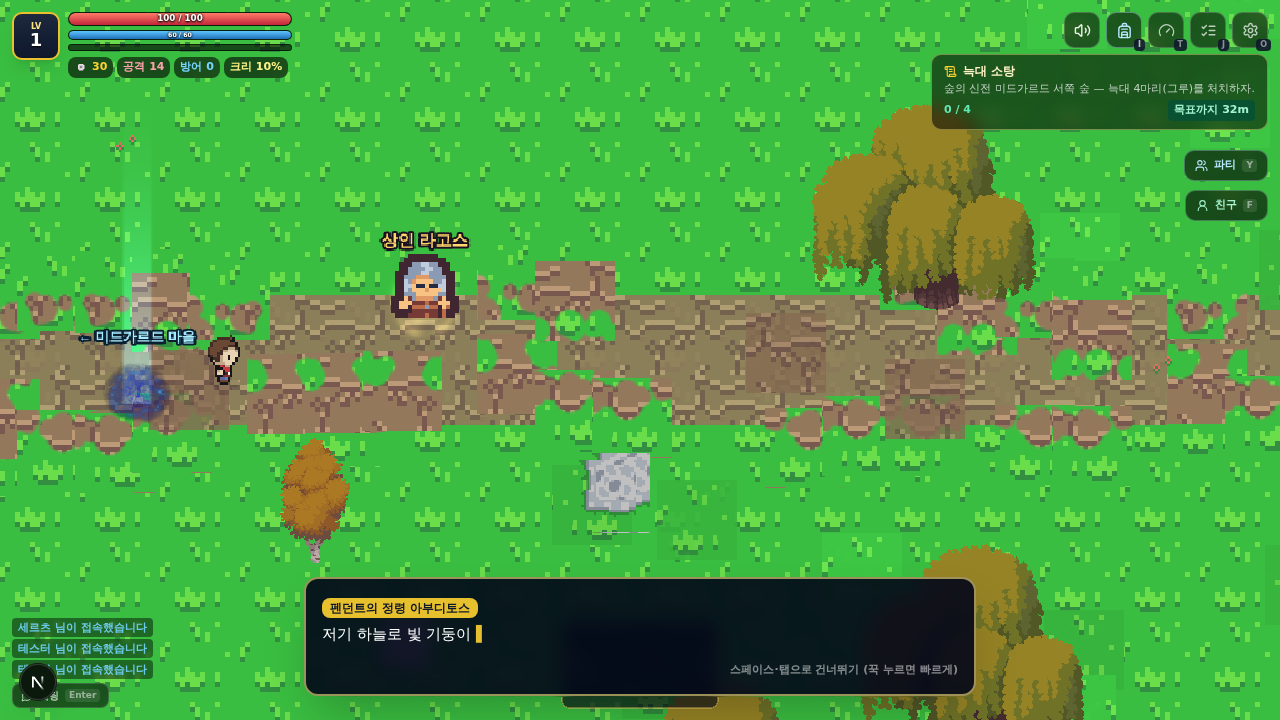
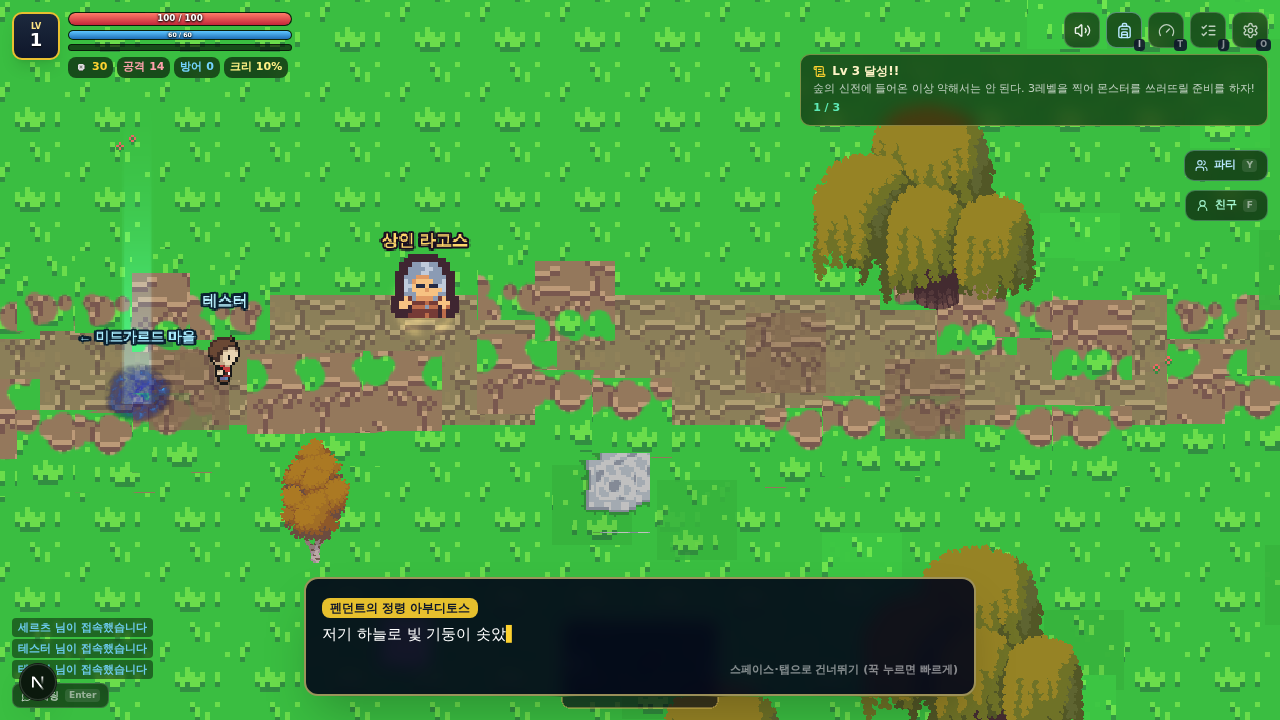
v2.4: 레벨 목표 퀘스트 게이트(9챕터×2, 동기부여+진행 게이트) + 구역 1~9 전진 포탈 소프트락 수정 + 옵션 이름 변경/이름표 유지

diff --git a/src/game/scenes/WorldScene.ts b/src/game/scenes/WorldScene.ts
@@ -364,6 +364,8 @@ export class WorldScene extends Phaser.Scene {
       if (savedPlayer.playerName) setPlayerName(savedPlayer.playerName);
       // 전직 클래스 복원 (v1.7 — 구 세이브 null 호환)
       this.player.applySavedClass(savedPlayer.cls);
+      // v2.4 — 이어하기 시에도 이름표 유지 (클래스 복원 후 생성 — "이름 · 클래스" 표기)
+      if (savedPlayer.playerName) this.ensurePlayerTag();
       // AP 스탯 복원 (v1.9 — 구 세이브는 loadSave()가 5/5/5/5 + 소급 AP 채움)
       // 지력/행운의 maxMp/maxHp 가산은 세이브 maxHp에 이미 포함 — 여기선 수치만 복원
       const st = savedPlayer.stats ?? { str: 5, dex: 5, int: 5, luk: 5 };
@@ -472,10 +474,16 @@ export class WorldScene extends Phaser.Scene {
     } else if (stageKey !== "village" && this.currentQuest()?.type === "reach") {
       // 수확 완료 후 세이브 — 차원문을 열어둔 채 시작 (소프트락 방지)
       this.activatePortal(true);
+    } else if (stageKey !== "village" && !this.stageDef.boss && this.questIdx >= this.stageDef.quests.length) {
+      // v2.4 — 체인 완료 상태로 이어하기 시 전진 포탈 개방 복구 (구역 1~9 소프트락 방지)
+      this.activatePortal(true);
     }
-
     /* ---------- 이펙트 풀 ---------- */
     this.buildFxPools();
+
+    /* v2.4 — 이어하기 시 레벨 게이트가 이미 충족된 상태면 즉시 연쇄 완료
+     *  (구세이브는 questIdx가 신규 체인의 앞쪽으로 밀려날 수 있다 — 자기 레벨이 충분하면 게이트 스킵) */
+    if (this.currentQuest()?.type === "level") this.tryCompleteLevel();
 
     /* ---------- 미니맵 (2D MMORPG 기본 요소) ---------- */
     this.minimap = this.add.graphics().setDepth(95).setScrollFactor(0).setAlpha(0.85);
@@ -483,6 +491,9 @@ export class WorldScene extends Phaser.Scene {
 
     /* ---------- 입력 ---------- */
     this.setupInput();
+
+    // E2E/디버그 훅 — 씬 인스턴스 실측용 (v2.4)
+    (window as unknown as { __SERTZ_SCENE__?: unknown }).__SERTZ_SCENE__ = this;
 
     /* ---------- 사운드/BGM (v2.0 — 챕터별 전용 테마 8트랙 / 실내는 마을 BGM) ---------- */
     audio.playBGM(this.isInterior ? "village" : audio.stageBgm(stageKey));
@@ -1633,10 +1644,23 @@ export class WorldScene extends Phaser.Scene {
   private afterAdvance() {
     const q = this.currentQuest();
     this.emitQuest();
-    if (!q) return;
+    if (!q) {
+      /* v2.4 치명 버그 수정 — 구역 1~9(보스 없는 구역)에서 체인 완료 후 전진 포탈이
+       *  활성화되지 않는 소프트락. v1.9는 모든 스테이지가 reach로 끝났지만 v2.0 구역
+       *  시스템에서 이 경로가 누락됐다. 체인 종료 = 곧바로 다음 사냥터 개방. */
+      if (!this.isInterior && !this.stageDef.boss && this.portal && !this.portalActive) {
+        this.activatePortal();
+      }
+      return;
+    }
     if (q.type === "hunt" && q.targetKey && !(q.targetKey in this.huntBaseline)) {
       // 토벌 퀘스트 시작 기준선 — 시작 이후 킬만 진행 (지시 #17)
       this.huntBaseline[q.targetKey] = this.killTotals[q.targetKey] ?? 0;
+    }
+    if (q.type === "level") {
+      // v2.4 — 이미 목표 레벨을 넘었으면 즉시 연쇄 완료 (소프트락 방지)
+      this.tryCompleteLevel();
+      return;
     }
     if (q.type === "reach") {
       if (!this.portal) this.spawnPortal(this.stageW - 130, this.stageH * 0.52);
@@ -1666,6 +1690,28 @@ export class WorldScene extends Phaser.Scene {
       const k = q.targetKey;
       if (k && (this.killTotals[k] ?? 0) >= (q.need ?? 0)) this.tryCompleteHunt(k);
     }
+  }
+
+  /**
+   * v2.4 레벨 목표 퀘스트 완료 판정 — 현재 체인 퀘스트가 "level"이고
+   *  목표 레벨에 도달했으면 즉시 완료. 레벨업 순간(Player.onLevelUp 훅)과
+   *  체인 진입 시각(afterAdvance) 양쪽에서 호출된다.
+   */
+  private tryCompleteLevel() {
+    const q = this.currentQuest();
+    if (!q || q.type !== "level") return;
+    if (this.player.lv < (q.need ?? 1)) return;
+    audio.sfx.questDone();
+    this.showBanner(`목표 달성 — Lv ${this.player.lv}! 다음 목표로!`);
+    this.spawnPickupText(this.player.x, this.player.y - 58, `Lv ${q.need} 달성!`, "#8fe84a");
+    this.advanceQuest();
+    this.afterAdvance();
+    this.save();
+  }
+
+  /** Player.gainExp 레벨업 훅 — 레벨 목표 퀘스트 즉시 판정 (v2.4) */
+  onLevelUp() {
+    this.tryCompleteLevel();
   }
 
   /* ================= 보스 ================= */
@@ -1784,7 +1830,15 @@ export class WorldScene extends Phaser.Scene {
       this.keymap = m;
     };
     const onNameSet = (v: { name: string }) => {
-      if (this.introStep === 2) this.finishIntro(v.name);
+      if (this.introStep === 2) {
+        this.finishIntro(v.name);
+        return;
+      }
+      // v2.4 — 인트로 외 이름 변경 (옵션 패널 → NamePanel 공용) — "이름 지정 어디감?" 해소
+      setPlayerName(v.name);
+      this.refreshPlayerTag();
+      this.save();
+      EventBus.emit("banner:show", { text: `이름이 '${v.name}'(으)로 바뀌었어요!` });
     };
     const onBuy = (v: { key: ItemKey }) => {
       if (!this.player || this.dialoguing) return;
@@ -2229,6 +2283,23 @@ export class WorldScene extends Phaser.Scene {
     if (!this.playerNameTag || !this.player) return;
     const d = classDef(this.player.cls);
     this.playerNameTag.setText(d ? `${getPlayerName()} · ${d.name}` : getPlayerName());
+  }
+
+  /** 플레이어 이름표 확보 — v2.4 수정: 재접속/씬 재시작 시에도 이름표 유지 (기존엔 인트로에서만 생성) */
+  private ensurePlayerTag() {
+    if (this.playerNameTag || !this.player) return;
+    this.playerNameTag = this.add
+      .text(this.player.x, this.player.y - 48, getPlayerName(), {
+        fontFamily: "sans-serif",
+        fontSize: "12px",
+        color: "#baf3ff",
+        stroke: "#0a2030",
+        strokeThickness: 4,
+        fontStyle: "bold",
+      })
+      .setOrigin(0.5)
+      .setDepth(60);
+    this.refreshPlayerTag();
   }
 
   /* ================= 플레이어 투사체 (v1.8) ================= */
@@ -2770,18 +2841,8 @@ export class WorldScene extends Phaser.Scene {
     this.introStep = 3;
     this.dialoguing = false;
     setPlayerName(name);
-    // 플레이어 이름표 (머리 위)
-    this.playerNameTag = this.add
-      .text(this.player.x, this.player.y - 48, name, {
-        fontFamily: "sans-serif",
-        fontSize: "12px",
-        color: "#baf3ff",
-        stroke: "#0a2030",
-        strokeThickness: 4,
-        fontStyle: "bold",
-      })
-      .setOrigin(0.5)
-      .setDepth(60);
+    // 플레이어 이름표 (머리 위) — v2.4: 이어하기 경로와 공용 생성기 사용
+    this.ensurePlayerTag();
     // 축하 연출
     audio.sfx.levelup();
     this.spawnBurstAt(this.player.x, this.player.y, 26, 0x9df0ff);
@@ -3107,6 +3168,10 @@ export class WorldScene extends Phaser.Scene {
     } else if (q.type === "talk") {
       current = Math.min(this.talkedNpcs.size, q.need ?? 0);
       target = q.need ?? 0;
+    } else if (q.type === "level") {
+      // v2.4 — 현재 레벨 / 목표 레벨 진행 바
+      current = Math.min(this.player.lv, q.need ?? 1);
+      target = q.need ?? 1;
     }
     let distance: number | null = null;
     const t = this.questTargetPos();

diff --git a/scripts/e2e_v24.js b/scripts/e2e_v24.js
@@ -1,0 +1,131 @@
+/* v2.4 E2E — 퀘스트 개편 + 이름 변경 검증
+ *  [1] forest1 진입 시 레벨 게이트 퀘스트가 맨 앞에 활성 (Lv 3 달성!!)
+ *  [2] 레벨업 순간 게이트 즉시 완료 → 다음 퀘스트(토벌)로 연쇄
+ *  [3] 고레벨 이어하기 시 게이트 자동 스킵 (구세이브 호환)
+ *  [4] 소프트락 수정 — 체인 완료 세이브로 이어하기 시 전진 포탈 활성
+ *  [5] 각 챕터 진입/중간 게이트 존재 (kingdom4: Lv 10)
+ *  [6] 옵션 패널 이름 변경 — NamePanel 공용 → 이름표/세이브 반영 */
+const { chromium } = require("playwright");
+const { spawn } = require("child_process");
+
+const PORT = 3110;
+const URL = `http://localhost:${PORT}`;
+let pass = 0, fail = 0;
+const ok = (cond, label) => { if (cond) { pass++; console.log(`  PASS — ${label}`); } else { fail++; console.log(`  FAIL — ${label}`); } };
+
+async function enterWorld(page) {
+  await page.goto(URL, { waitUntil: "domcontentloaded", timeout: 90000 });
+  await page.waitForSelector("text=새로운 모험", { timeout: 60000 });
+  await page.click("text=새로운 모험");
+  for (let i = 0; i < 40; i++) {
+    const inWorld = await page.evaluate(() => !!(window.__SERTZ__?.game?.scene.getScene("world")?.player));
+    if (inWorld) break;
+    await page.mouse.click(640, 400); await page.keyboard.press("e"); await page.waitForTimeout(400);
+  }
+  await page.waitForTimeout(900);
+  await page.evaluate(() => {
+    const w = window.__SERTZ__.game.scene.getScene("world");
+    w.finishIntro("테스터");
+  });
+  await page.waitForTimeout(400);
+  for (let i = 0; i < 5; i++) { await page.keyboard.press("Space"); await page.waitForTimeout(260); }
+  await page.evaluate(() => {
+    const w = window.__SERTZ__.game.scene.getScene("world");
+    w.dialoguing = false; w.introStep = -1; w.sleepPending = false;
+  });
+  await page.waitForTimeout(250);
+}
+
+/** 커스텀 세이브로 스테이지 재시작 (퀘스트 인덱스/레벨 조작) */
+async function restartWith(page, stage, patch) {
+  await page.evaluate(([st, p]) => {
+    const w = window.__SERTZ__.game.scene.getScene("world");
+    const carry = w.buildSave(st);
+    Object.assign(carry, p);
+    w.scene.restart({ stage: st, save: carry });
+  }, [stage, patch]);
+  await page.waitForTimeout(1800);
+  await page.evaluate(() => {
+    const w = window.__SERTZ__.game.scene.getScene("world");
+    w.dialoguing = false; w.introStep = -1;
+  });
+  await page.waitForTimeout(300);
+}
+
+const questOf = (page) => page.evaluate(() => {
+  const w = window.__SERTZ__.game.scene.getScene("world");
+  const q = w.currentQuest();
+  return q ? { type: q.type, title: q.title, need: q.need ?? null, idx: w.questIdx } : null;
+});
+
+(async () => {
+  const srv = spawn("node", ["server.js"], { cwd: "/home/z/my-project", env: { ...process.env, PORT: String(PORT) }, stdio: "ignore" });
+  for (let i = 0; i < 60; i++) { await new Promise((r) => setTimeout(r, 500)); try { const r = await fetch(`${URL}/socket.io/?EIO=4&transport=polling`); if (r.ok) break; } catch {} }
+  const browser = await chromium.launch();
+  const page = await browser.newPage({ viewport: { width: 1280, height: 720 } });
+  page.on("pageerror", (e) => console.log("PAGEERROR:", String(e).slice(0, 200)));
+
+  console.log("[1] forest1 진입 — 레벨 게이트 퀘스트가 체인 맨 앞");
+  await enterWorld(page);
+  await restartWith(page, "forest1", { lv: 1, questIdx: { forest1: 0 } });
+  const q1 = await questOf(page);
+  ok(q1?.type === "level", `forest1 첫 퀘스트 = level (실제: ${q1?.type})`);
+  ok(q1?.need === 3 && /Lv 3/.test(q1?.title ?? ""), `게이트 목표 Lv 3 — "${q1?.title}"`);
+  await page.screenshot({ path: "/home/z/my-project/scripts/v24-forest-gate.png" });
+
+  console.log("[2] 레벨업 순간 — 게이트 즉시 완료 → 토벌 퀘스트 연쇄");
+  await page.evaluate(() => {
+    const w = window.__SERTZ__.game.scene.getScene("world");
+    w.player.gainExp(400); // Lv 1 → 4 근처 — 목표 Lv 3 돌파
+  });
+  await page.waitForTimeout(500);
+  const q2 = await questOf(page);
+  ok(q2?.type === "hunt", `게이트 완료 후 토벌 퀘스트 활성 (실제: ${q2?.type} "${q2?.title}")`);
+  const lvAfter = await page.evaluate(() => window.__SERTZ__.game.scene.getScene("world").player.lv);
+  ok(lvAfter >= 3, `레벨 상승 확인 (Lv ${lvAfter})`);
+
+  console.log("[3] 고레벨 이어하기 — 게이트 자동 스킵 (구세이브 호환)");
+  await restartWith(page, "forest1", { lv: 10, questIdx: { forest1: 0 } });
+  const q3 = await questOf(page);
+  ok(q3?.type === "hunt", `Lv 10 로드 시 게이트 스킵 → 토벌 퀘스트 (실제: ${q3?.type} idx=${q3?.idx})`);
+
+  console.log("[4] 소프트락 수정 — 체인 완료 이어하기 시 전진 포탈 활성");
+  await restartWith(page, "forest1", { lv: 10, questIdx: { forest1: 2 } });
+  const portal = await page.evaluate(() => {
+    const w = window.__SERTZ__.game.scene.getScene("world");
+    return { active: w.portalActive, hasPortal: !!w.portal, tint: w.portal ? w.portal.tintTopLeft : -1 };
+  });
+  ok(portal.hasPortal && portal.active, `전진 포탈 활성 (active=${portal.active})`);
+  await page.screenshot({ path: "/home/z/my-project/scripts/v24-portal-open.png" });
+
+  console.log("[5] 챕터 중간 게이트 — kingdom4 (Lv 10 달성)");
+  await restartWith(page, "kingdom4", { lv: 1, questIdx: { kingdom4: 0 } });
+  const q5 = await questOf(page);
+  ok(q5?.type === "level" && q5?.need === 10, `kingdom4 게이트 = Lv 10 (실제: ${q5?.type}:${q5?.need})`);
+
+  console.log("[6] 옵션 패널 이름 변경 — NamePanel 공용 연동");
+  await restartWith(page, "village", { lv: 3 });
+  await page.evaluate(() => window.__SERTZ_EB__.emit("name:ask"));
+  await page.waitForTimeout(400);
+  const panelVisible = await page.evaluate(() => !!document.querySelector('input[maxlength="8"]'));
+  ok(panelVisible, "이름 입력 패널 오픈");
+  if (panelVisible) {
+    await page.fill('input[maxlength="8"]', "세이라");
+    await page.click("text=이 이름으로 모험 시작!");
+    await page.waitForTimeout(500);
+    const renamed = await page.evaluate(() => {
+      const w = window.__SERTZ__.game.scene.getScene("world");
+      return {
+        tag: w.playerNameTag ? w.playerNameTag.text : null,
+        saved: JSON.parse(window.localStorage.getItem("sertz_save_v2") || "{}").playerName,
+      };
+    });
+    ok(renamed.saved === "세이라", `세이브에 이름 반영 (${renamed.saved})`);
+    ok((renamed.tag ?? "").includes("세이라"), `이름표 갱신 (${renamed.tag})`);
+    await page.screenshot({ path: "/home/z/my-project/scripts/v24-rename.png" });
+  }
+
+  await browser.close();
+  console.log(`\n결과: ${pass} PASS / ${fail} FAIL`);
+  process.exit(fail === 0 ? 0 : 1);
+})().catch((e) => { console.error("E2E FAIL:", e); process.exit(1); });

diff --git a/src/components/game/Panels.tsx b/src/components/game/Panels.tsx
@@ -8,6 +8,7 @@ import {
 } from "@/game/data";
 import { CLASS_LIST, FREE_JOB_COST, chainOf, familyOf, jobOptions, freeJobOption, nextJobLevel, type ClassDef } from "@/game/classes";
 import { loadKeyMap, applyKeyBinding, resetKeyMap, ACTION_LABELS, ASSIGNABLE_KEYS, type GameAction, type KeyMap } from "@/game/keymap";
+import { getPlayerName } from "@/game/config"; // v2.4 — 이름 변경 표시
 
 /**
  * 2D MMORPG 기본 요소 UI — 상점 / 인벤토리 패널
@@ -894,6 +895,23 @@ function KeymapPanel({ onClose }: { onClose: () => void }) {
             className="flex h-7 w-7 items-center justify-center rounded-md border border-white/20 bg-black/40 text-white/80 hover:bg-black/70"
           >
             ✕
+          </button>
+        </div>
+
+        {/* v2.4 — 이름 변경 (인트로를 놓친 경우에도 언제든 이름 지정/변경 가능) */}
+        <div className="mb-2.5 mt-3 flex items-center gap-2.5 rounded-lg border border-amber-200/30 bg-amber-400/[0.07] px-2.5 py-2.5">
+          <div className="min-w-0 flex-1">
+            <p className="text-[12px] font-black text-amber-200">이름 변경</p>
+            <p className="truncate text-[10px] text-white/50">현재 이름: {getPlayerName() || "세르츠"}</p>
+          </div>
+          <button
+            onClick={() => {
+              onClose(); // 설정 창 닫고 이름 패널 오픈
+              EventBus.emit("name:ask");
+            }}
+            className="shrink-0 rounded-md bg-amber-400 px-3 py-1.5 text-[11px] font-black text-slate-900 hover:bg-amber-300 active:scale-95"
+          >
+            이름 짓기
           </button>
         </div>
 

diff --git a/scripts/check_v24_chain.ts b/scripts/check_v24_chain.ts
@@ -1,0 +1,30 @@
+/** v2.4 체인 검증 — 레벨 게이트 배치 + 각 구역 퀘스트 구성 출력 */
+import { STAGES } from "../src/game/stages";
+
+const targets = [
+  "village", "forest1", "forest4", "forest10",
+  "kingdom1", "kingdom4", "alfheim1", "muspelheim1",
+  "niflheim1", "cave1", "nidavellir1", "hel1", "abyss1", "abyss10",
+];
+for (const k of targets) {
+  const s = STAGES[k];
+  if (!s) { console.log(`${k}: 없음!`); continue; }
+  const qs = s.quests.map((q) => `${q.type}${q.type === "level" ? `:${q.need}` : q.type === "hunt" ? `:${q.need ?? ""}` : ""}`);
+  console.log(`${k.padEnd(12)} [${qs.join(", ")}]`);
+}
+// 레벨 게이트 누락 검사: 각 챕터 sub1/sub4에는 level 퀘스트가 반드시 있어야 한다
+let missing = 0;
+for (const [k, s] of Object.entries(STAGES)) {
+  if (k === "village" || k.startsWith("interior")) continue;
+  const m = /^(forest|kingdom|alfheim|muspelheim|niflheim|cave|nidavellir|hel|abyss)(\d+)$/.exec(k);
+  if (!m) continue;
+  const sub = parseInt(m[2], 10);
+  const hasLevel = s.quests.some((q) => q.type === "level");
+  if ((sub === 1 || sub === 4) && !hasLevel) { console.log(`MISSING gate: ${k}`); missing++; }
+  if (sub !== 1 && sub !== 4 && hasLevel) { console.log(`UNEXPECTED gate: ${k}`); missing++; }
+  // 체인 순서 검사: level 퀘스트는 항상 맨 앞
+  if (s.quests.length && s.quests[0].type !== "level" && (sub === 1 || sub === 4)) {
+    console.log(`GATE NOT FIRST: ${k}`); missing++;
+  }
+}
+console.log(missing === 0 ? "✅ 레벨 게이트 18구역(챕터×2) 모두 정상 배치" : `❌ 문제 ${missing}건`);

diff --git a/src/game/entities/Player.ts b/src/game/entities/Player.ts
@@ -518,6 +518,7 @@ export class Player extends Phaser.Physics.Arcade.Sprite {
     if (leveled) {
       this.scene.sfxLevelUp();
       this.scene.spawnLevelUpFx(this.x, this.y);
+      this.scene.onLevelUp(); // v2.4 — 레벨 목표 퀘스트 즉시 판정
     }
     this.scene.emitHud();
   }

diff --git a/worklog.md b/worklog.md
@@ -216,3 +216,30 @@ Stage Summary:
   공유용 공개 직링이 필요하면 리포지토리 공개 전환 필요 (Settings → General → Danger Zone → Change visibility)
 - 사용자가 리포지토리 공개 전환 완료 → visibility: public 실측. 익명 raw 직링 206 정상,
   전체 다운로드 무결성 검증(16,766,788B / versionCode 8, versionName 2.3) 통과 — 공개 직링 확정
+
+---
+Task ID: v2.4-quest
+Agent: Super Z (main)
+Task: 사용자 지시 — ①레벨 목표 퀘스트("5레벨을 찍자!!" 동기부여) + 다음 사냥터 진행 게이트 ②이름 지정 위치
+
+Work Log:
+- ⚠ 치명 소프트락 발견·수정: v2.0 구역 시스템에서 구역 1~9(보스 없는 구역) 체인 완료 후
+  전진 포탈이 영원히 비활성(v1.9는 모든 스테이지가 reach로 끝나 문제 없었다 — E2E가 세이브 텔레포트만
+  테스트해 미발견). afterAdvance 체인종료 분기 + create 이어하기 복구 분기에 activatePortal 추가
+- 퀘스트 타입 "level" 신규: need=목표 레벨. Player.gainExp 레벨업 → scene.onLevelUp 훅 →
+  tryCompleteLevel 즉시 판정. afterAdvance 체인 진입 시 이미 충족이면 연쇄 완료(소프트락 방지).
+  emitQuest 진행바(lv/need), 이어하기 시 초과 충족 게이트 자동 스킵(구세이브 questIdx 호환)
+- 9챕터 × 2게이트 = 18구역 배치: sub1 진입 + sub4 중간. 숲 3/5, 왕국 8/10, 알프헤임 14/16,
+  무스펠 20/23, 니플 27/30, 동굴 34/38, 니다벨리르 42/46, 헬 50/54, 아뜰란티스 58/62.
+  보상 골드/경험치는 챕터 배율 반영 (check_v24_chain.ts로 배치 무결성 검증)
+- 이름 문제 해소: ①원인 — 이름표/입력이 인트로 시퀀스에만 존재(재접속 시 이름표 소실 버그 발견 포함).
+  옵션(설정) 패널에 "이름 변경" 섹션 추가 → NamePanel 공용(name:ask/name:set) →
+  WorldScene onNameSet에 인트로 외 리네임 경로 추가(전역 이름+이름표+세이브 반영)
+- ensurePlayerTag 추출: 이어하기/씬 재시작 시에도 머리 위 이름표 재생성(기존엔 finishIntro에서만)
+- WorldScene __SERTZ_SCENE__ 디버그 훅 추가
+- 검증: tsc 0 / eslint 0 / next build 성공 / e2e_v24 10 PASS 0 FAIL (게이트 배치·레벨업 연쇄·
+  구세이브 스킵·포탈 활성·이름 변경) / e2e_v23 회귀 19 PASS 0 FAIL
+
+Stage Summary:
+- v2.4: 레벨 게이트 퀘스트로 진행 동기부여 강화 + 구역 1~9 진행 소프트락 근본 수정 + 이름 변경 UI
+- 커밋만 수행 (APK 미빌드 — 사용자 기존 지시 유지). 다음 빌드 시 versionCode 9 / versionName 2.4
